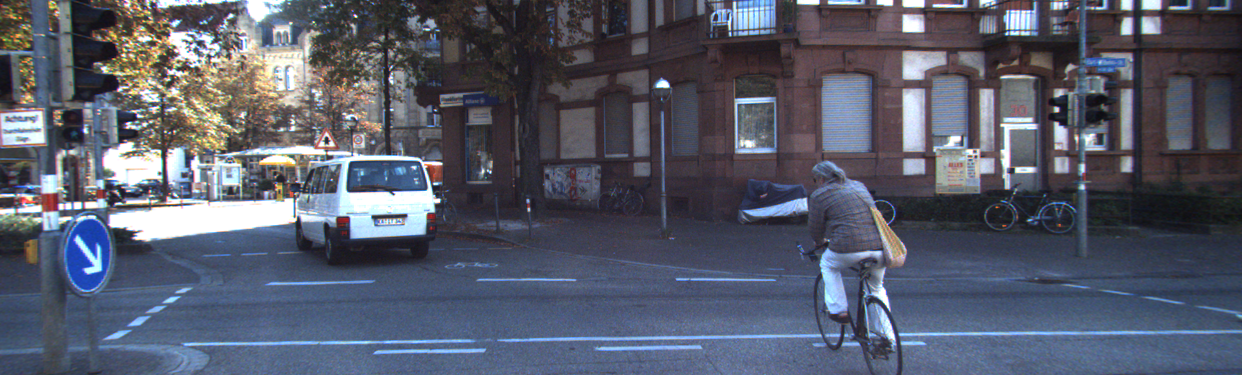
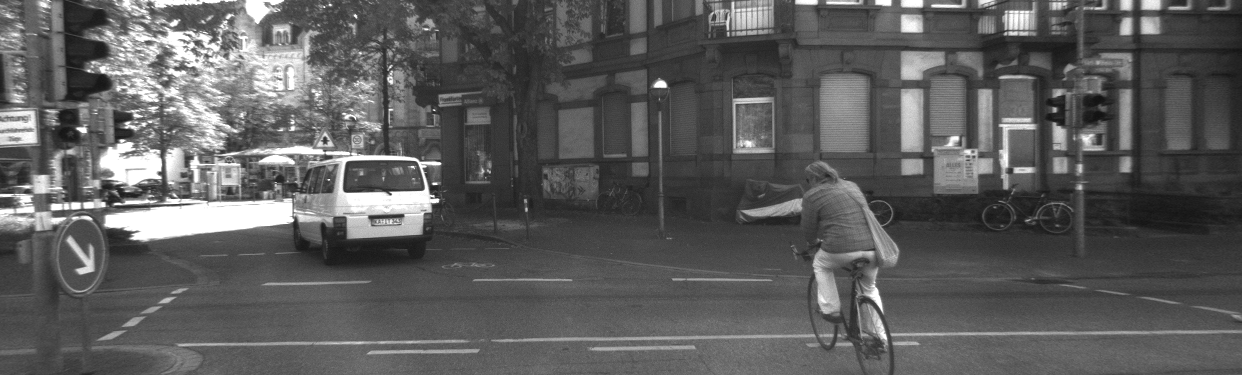
runs, but result is very buggy

diff --git a/visual_odometry_mono.m b/visual_odometry_mono.m
@@ -1,57 +1,89 @@
-function [] = visual_odometry_mono(folderPath)
+function [rMatrices tVectors] = visual_odometry_mono(folderPath)
     %UNTITLED2 Summary of this function goes here
     %   Detailed explanation goes here
+    rMatrices = [];
+    tVectors = [];
     
     numFeatures = 500;
     
     % get list of images
     images = dir(strcat(folderPath, '/*.png'));
-    img_1_path = strcat(images(1).folder, '/', images(1).name);
-    img_2_path = strcat(images(2).folder, '/', images(2).name);
     
-    img_1 = rgb2gray(imread(img_1_path));
-    img_2 = rgb2gray(imread(img_2_path));
-    
-    % FEATURE EXTRACTION
-    % extract features from each
-    img_1_features = visual_odometry_mono_detectCorners(img_1, numFeatures);
-    %img_2_features = visual_odometry_mono_detectCorners(img_2);
-    
-    % FEATURE MATCHING
-    % Just tracking the points from one frame to the next, and then again
-    % doing the detection part, but in a better implmentation, one would
-    % track these points as long as the number of points do not drop below
-    % a particular threshold.
-    tracker = vision.PointTracker('MaxBidirectionalError', 1);
-    initialize(tracker, img_1_features.Location, img_1);
-    [img_2_features, validity] = step(tracker, img_2);
-    bad_match_indeces = validity(:)==0;
-    img_1_features = img_1_features.Location;
-    img_1_features(bad_match_indeces,:) = [];
-    img_2_features(bad_match_indeces,:) = [];
-    
-    tmp = cornerPoints(img_1_features);
-    figure;
-    imshow(img_1); hold on;
-    plot(tmp);
-    hold off;
-    
-%     size(img_1_features.Location)
-%     size(img_2_features)
-    
-%     img_2_features = img_2_features';
-%     figure;
-%     imshow(img_2); hold on;
-%     plot(img_2_features(1,:), img_2_features(2,:), 'gx');
-%     hold off;
+    % get the camera intrinsic and extrinsic calibration
+    % from KITTI matlab devkit
+    calib = loadCalibrationCamToCam(fullfile(folderPath,'calib_cam_to_cam.txt'));
+    K = transpose(calib.K{1});
+    K(2, 2) = K(2, 2) + 1.0;
+    cameraParams = cameraParameters('IntrinsicMatrix', K);
 
     
-    
-   
-    %   Use Nister’s 5-point alogirthm with RANSAC to compute the essential matrix.
-    % - INLIER DETECTION
-    %   only keep high quality features
-    % - COMPUTE R and t
-    
+    % take next two images and work on them
+    while length(images) >= 2
+        img_1_path = fullfile(images(1).folder, images(1).name);
+        img_2_path = fullfile(images(2).folder, images(2).name);
+        disp(img_1_path)
+        %disp(img_2_path)
+        % remove image that we are currently working on
+        images(1) = [];
+        
+        img_1 = imread(img_1_path);
+        img_2 = imread(img_2_path);
+        
+        if size(img_1, 3) == 3
+            img_1 = rgb2gray(img_1);
+            img_2 = rgb2gray(img_2);
+        end
+
+        % FEATURE EXTRACTION
+        img_1_features = visual_odometry_mono_detectCorners(img_1, numFeatures);
+
+        % FEATURE MATCHING
+        % Just tracking the points from one frame to the next, and then again
+        % doing the detection part, but in a better implmentation, one would
+        % track these points as long as the number of points do not drop below
+        % a particular threshold.
+        tracker = vision.PointTracker('MaxBidirectionalError', 1);
+        initialize(tracker, img_1_features.Location, img_1);
+        [img_2_features, validity] = step(tracker, img_2);
+        bad_match_indeces = validity(:)==0;
+        img_1_features = img_1_features.Location;
+        img_1_features(bad_match_indeces,:) = [];
+        img_2_features(bad_match_indeces,:) = [];
+
+%         tmp = cornerPoints(img_1_features);
+%         figure;
+%         imshow(img_1); hold on;
+%         plot(tmp);
+%         hold off;
+
+        % ESSENTIAL MATRIX
+        % uses MSAC
+        img_1_features = cornerPoints(img_1_features);
+        img_2_features = cornerPoints(img_2_features);
+        [E, inliers] = estimateEssentialMatrix(img_1_features, img_2_features, cameraParams);
+
+        inlierPoints1 = img_1_features(inliers);
+        inlierPoints2 = img_2_features(inliers);
+%         figure
+%         showMatchedFeatures(img_1,img_2,inlierPoints1,inlierPoints2);
+%         title('Inlier Matches')
+
+        % - COMPUTE R and t
+        % relativeCameraPose decomposes E and finds correct solution out of
+        % the four for R (2x) and t (2x)
+        [relativeOrientation,relativeLocation] = relativeCameraPose(E,cameraParams,inlierPoints1,inlierPoints2);
+        
+        %[rotationMatrix,translationVector] = cameraPoseToExtrinsics(relativeOrientation,relativeLocation)
+        
+        % assumption: we always travel forward
+        % invert vector and matrix if vector is pointing in negative
+        % direction
+        if relativeLocation(1) < 0
+            relativeLocation = relativeLocation * -1;
+            relativeOrientation = inv(relativeOrientation);
+        end
+        rMatrices = cat(3, rMatrices, relativeOrientation);
+        tVectors = [tVectors; relativeLocation];
+    end
 end
 

diff --git a/loadCalibrationCamToCam.m b/loadCalibrationCamToCam.m
@@ -1,0 +1,87 @@
+% FROM KITTI DEVKIT
+
+function calib = loadCalibrationCamToCam(filename)
+
+% open file
+fid = fopen(filename,'r');
+
+if fid<0
+  calib = [];
+  return;
+end
+
+% read corner distance
+calib.cornerdist = readVariable(fid,'corner_dist',1,1);
+
+% read all cameras (maximum: 100)
+for cam=1:100
+  
+  % read variables
+  S_      = readVariable(fid,['S_' num2str(cam-1,'%02d')],1,2);
+  K_      = readVariable(fid,['K_' num2str(cam-1,'%02d')],3,3);
+  D_      = readVariable(fid,['D_' num2str(cam-1,'%02d')],1,5);
+  R_      = readVariable(fid,['R_' num2str(cam-1,'%02d')],3,3);
+  T_      = readVariable(fid,['T_' num2str(cam-1,'%02d')],3,1);
+  S_rect_ = readVariable(fid,['S_rect_' num2str(cam-1,'%02d')],1,2);
+  R_rect_ = readVariable(fid,['R_rect_' num2str(cam-1,'%02d')],3,3);
+  P_rect_ = readVariable(fid,['P_rect_' num2str(cam-1,'%02d')],3,4);
+  
+  % calibration for this cam completely found?
+  if isempty(S_) || isempty(K_) || isempty(D_) || isempty(R_) || isempty(T_)
+    break;
+  end
+  
+  % write calibration
+  calib.S{cam} = S_;
+  calib.K{cam} = K_;
+  calib.D{cam} = D_;
+  calib.R{cam} = R_;
+  calib.T{cam} = T_;
+  
+  % if rectification available
+  if ~isempty(S_rect_) && ~isempty(R_rect_) && ~isempty(P_rect_)
+    calib.S_rect{cam} = S_rect_;
+    calib.R_rect{cam} = R_rect_;
+    calib.P_rect{cam} = P_rect_;
+  end
+end
+
+% close file
+fclose(fid);
+
+%%%%%%%%%%%%%%%%%%%%%%%%%%%%%%%%%%%%%%%%%%%%%%
+%%%%%%%%%%%%%%%%%%%%%%%%%%%%%%%%%%%%%%%%%%%%%%
+
+function A = readVariable(fid,name,M,N)
+
+% rewind
+fseek(fid,0,'bof');
+
+% search for variable identifier
+success = 1;
+while success>0
+  [str,success] = fscanf(fid,'%s',1);
+  if strcmp(str,[name ':'])
+    break;
+  end
+end
+
+% return if variable identifier not found
+if ~success
+  A = [];
+  return;
+end
+
+% fill matrix
+A = zeros(M,N);
+for m=1:M
+  for n=1:N
+    [val,success] = fscanf(fid,'%f',1);
+    if success
+      A(m,n) = val;
+    else
+      A = [];
+      return;
+    end
+  end
+end

diff --git a/visual_odometry_mono_detectCorners.m b/visual_odometry_mono_detectCorners.m
@@ -1,4 +1,4 @@
-function [corners] = visual_odometry_mono_detectCorners(img, num_features)
+function corners = visual_odometry_mono_detectCorners(img, num_features)
     %visual_odometry_mono_detectCorners Detects evenly distributed corners 
     % across image
     %   Goes through image in chunks and extracts a max number of features
